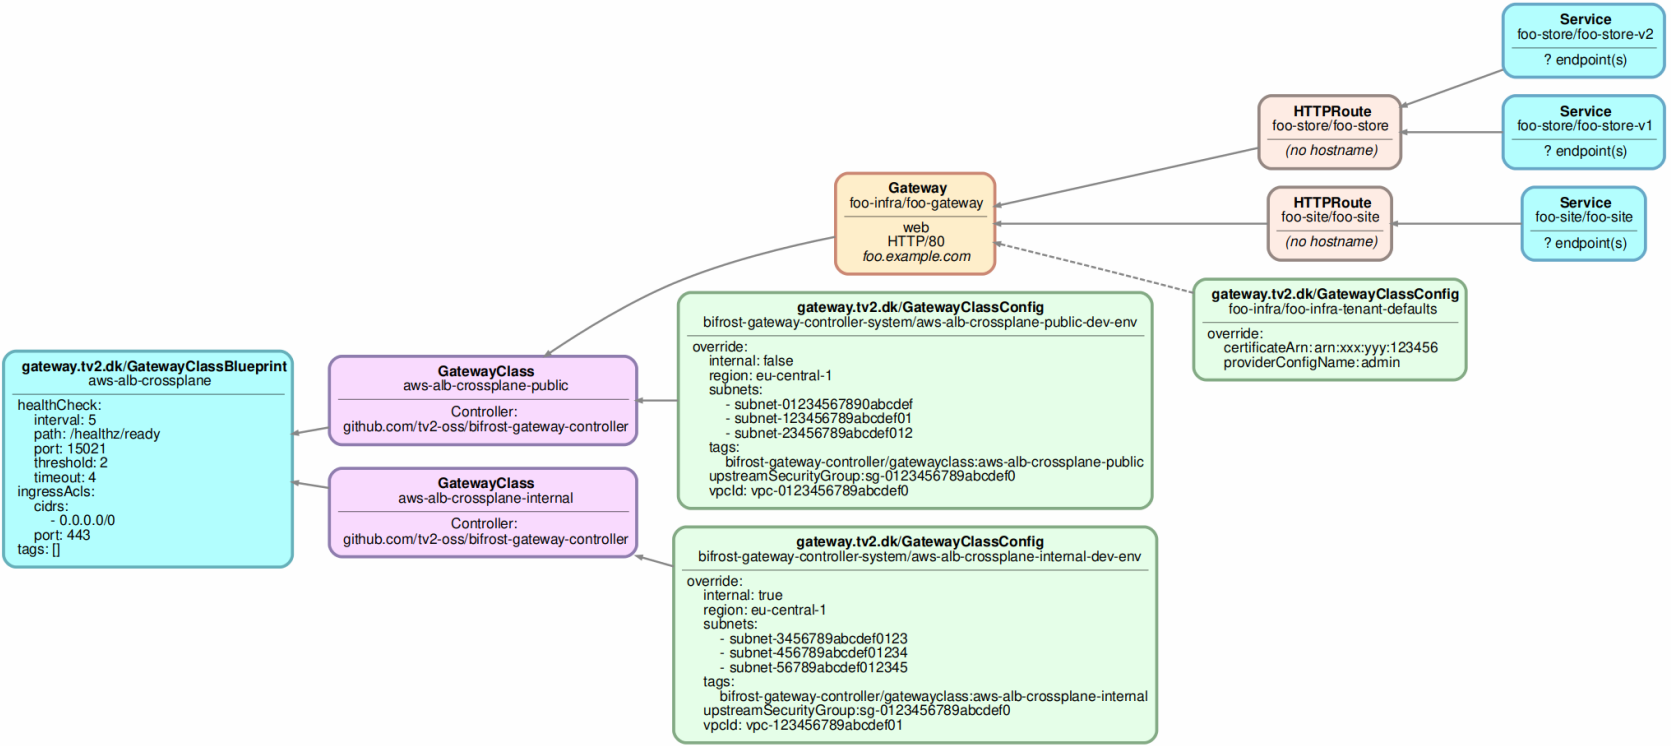
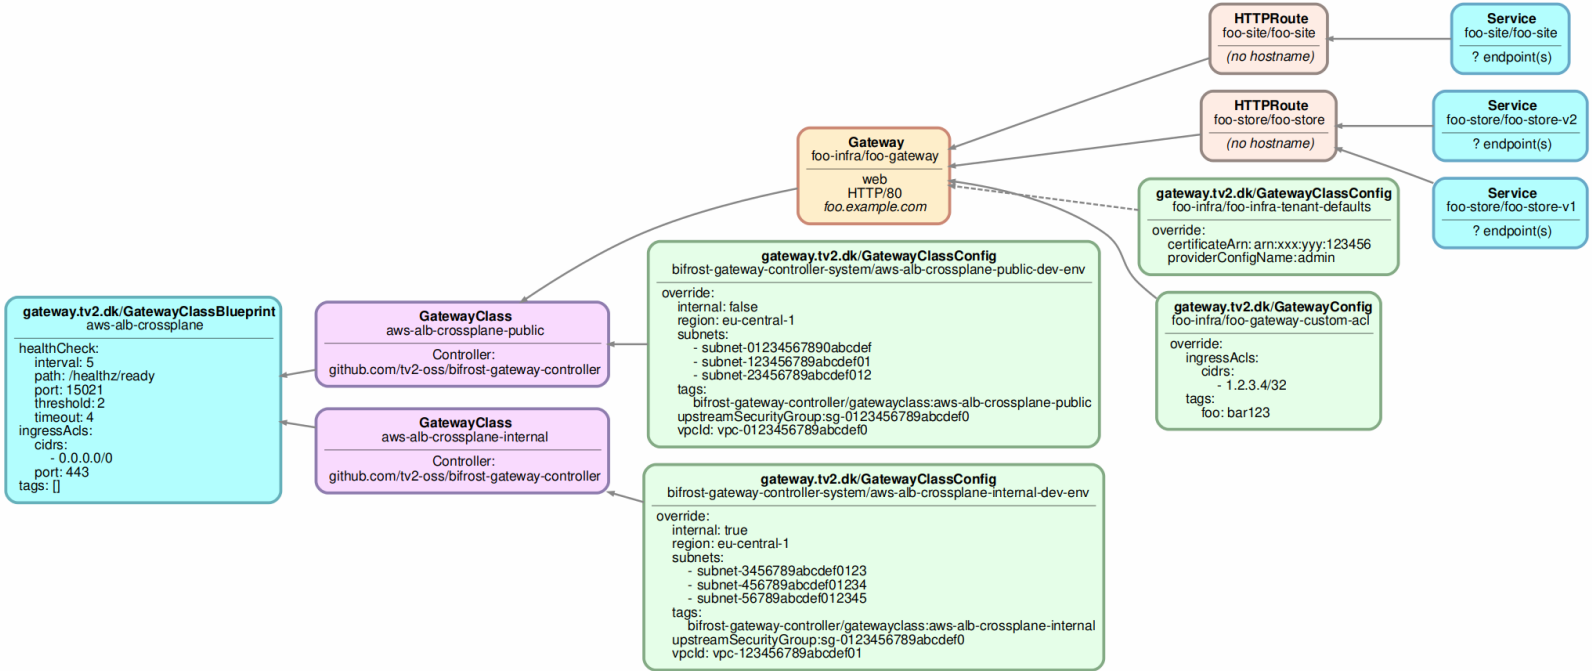
Add GatewayConfig policy. Fix policy namespace listing bug

Changed region(s): [[0.0, 0.0, 1.0, 1.0], [0.6771, 0.1192, 0.7079, 0.149], [0.6464, 0.149, 0.6771, 0.1788]]

diff --git a/cmd/gateway-api-lens/main.go b/cmd/gateway-api-lens/main.go
@@ -102,6 +102,7 @@ type State struct {
 	attachedPolicies  []Policy
 }
 
+// This is the print-friendly format we process all resources into
 type CommonObjRef struct {
 	name           string
 	namespace      string
@@ -174,9 +175,6 @@ type Policy struct {
 
 	// Policy targetRef read from unstructured
 	rawTargetRef *gatewayv1a2.PolicyTargetReference
-
-	// Whether the policy is namespaced
-	isNamespaced bool
 
 	// The unprocessed resource
 	raw *unstructured.Unstructured

diff --git a/README.md b/README.md
@@ -40,10 +40,11 @@ dashed arrow):
 ```bash
 $ gateway-api-lens -o policy
 
-NAMESPACE POLICY                                                 TARGET                                   DEFAULT OVERRIDE
-          GatewayClassConfig/aws-alb-crossplane-internal-dev-env GatewayClass/aws-alb-crossplane-internal No      Yes
-          GatewayClassConfig/aws-alb-crossplane-public-dev-env   GatewayClass/aws-alb-crossplane-public   No      Yes
-          GatewayClassConfig/foo-infra-tenant-defaults           Namespace/foo-infra                      No      Yes
+NAMESPACE                         POLICY                                                 TARGET                                   DEFAULT OVERRIDE
+bifrost-gateway-controller-system GatewayClassConfig/aws-alb-crossplane-internal-dev-env GatewayClass/aws-alb-crossplane-internal No      Yes
+bifrost-gateway-controller-system GatewayClassConfig/aws-alb-crossplane-public-dev-env   GatewayClass/aws-alb-crossplane-public   No      Yes
+foo-infra                         GatewayClassConfig/foo-infra-tenant-defaults           Namespace/foo-infra                      No      Yes
+foo-infra                         GatewayConfig/foo-gateway-custom-acl                   Gateway/foo-infra/foo-gateway            No      Yes
 ```
 
 # Hierarchy Format
